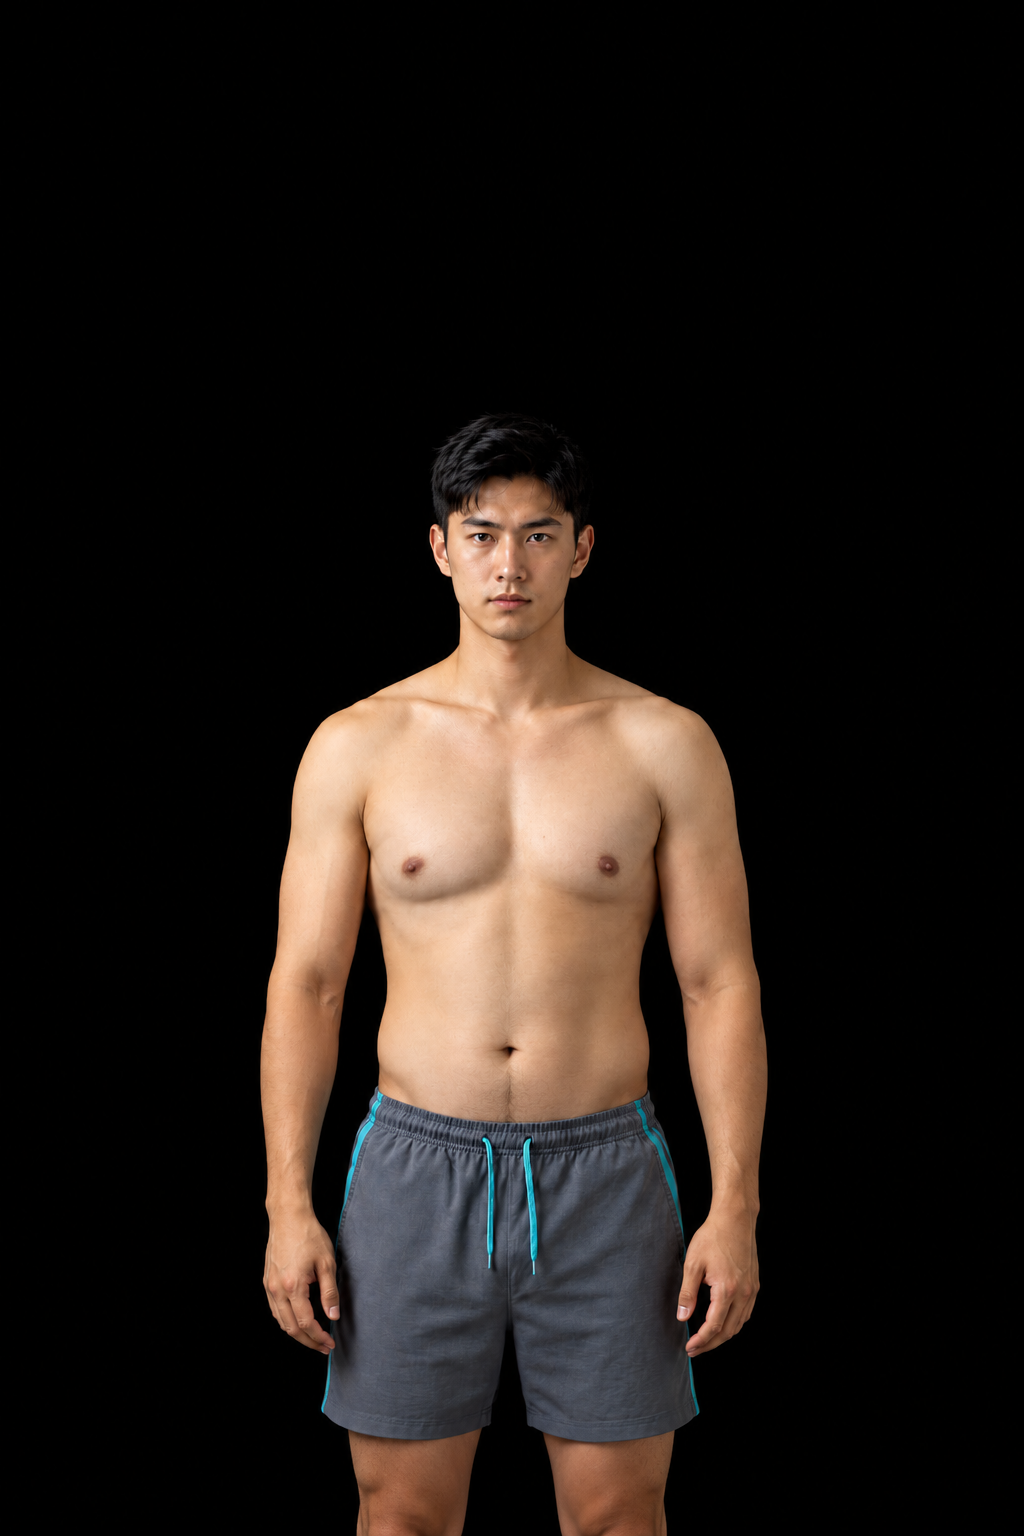
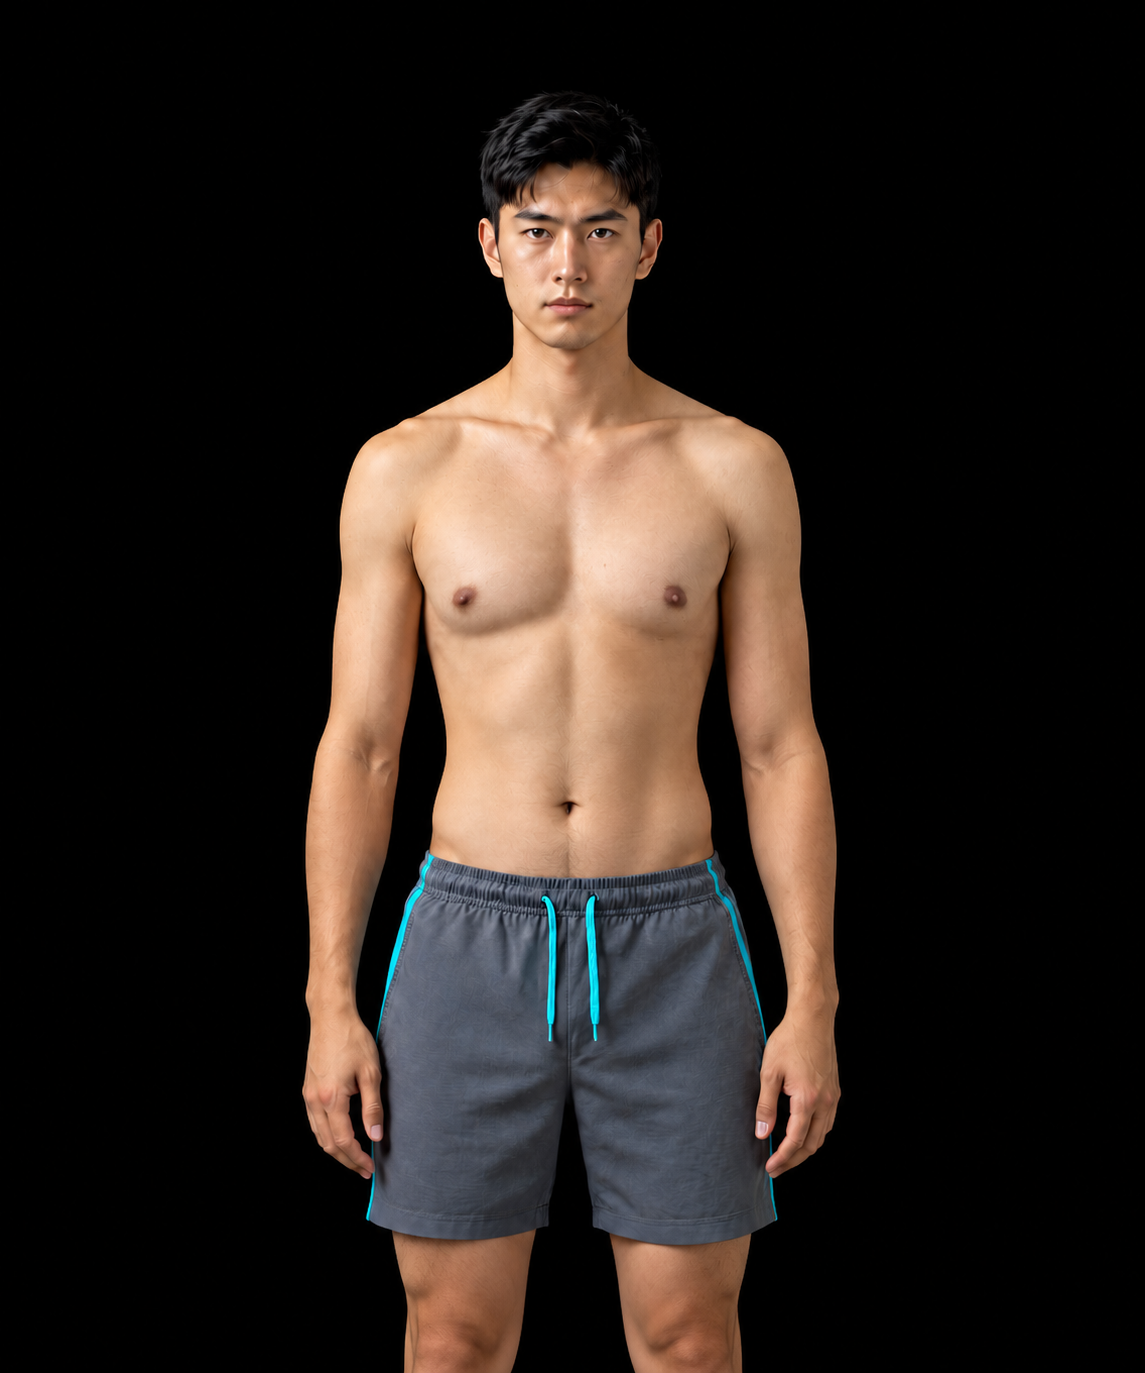
Site melhor 1

Changed region(s): [[0.25, 0.0612, 0.75, 1.0]]

diff --git a/myh/src/main/resources/static/questionario.js b/myh/src/main/resources/static/questionario.js
@@ -471,6 +471,16 @@ function renderGridImagem(pergunta) {
 
     // Percorre todas as opções.
     pergunta.opcoes.forEach((op) => {
+        const indice = pergunta.opcoes.indexOf(op) + 1;
+        const usaImagemFeminina = respostas.sexo === "Feminino"
+            && (pergunta.id === "forma_atual" || pergunta.id === "forma_desejada");
+        const prefixoImagem = pergunta.id === "forma_desejada"
+            ? "corpo-desejado-feminino"
+            : "corpo-feminino";
+        const imagem = usaImagemFeminina
+            ? `/images/${prefixoImagem}-${indice}.png`
+            : op.imagem;
+
         const btn = document.createElement("button");
         btn.type = "button";
         btn.className = "opcao-img";
@@ -481,7 +491,7 @@ function renderGridImagem(pergunta) {
         // Cria a imagem e a legenda da opção.
         btn.innerHTML = `
             <span class="img-wrap">
-                <img src="${op.imagem}" alt="${op.label}" onerror="this.replaceWith(Object.assign(document.createElement('span'),{textContent:'🧍', style:'font-size:40px'}))">
+                <img src="${imagem}" alt="${op.label}" onerror="this.replaceWith(Object.assign(document.createElement('span'),{textContent:'🧍', style:'font-size:40px'}))">
             </span>
             <span class="img-legenda">${op.label}</span>
         `;
